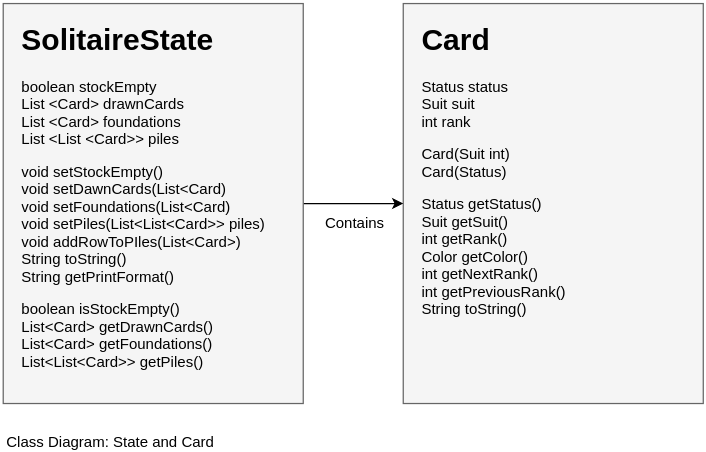
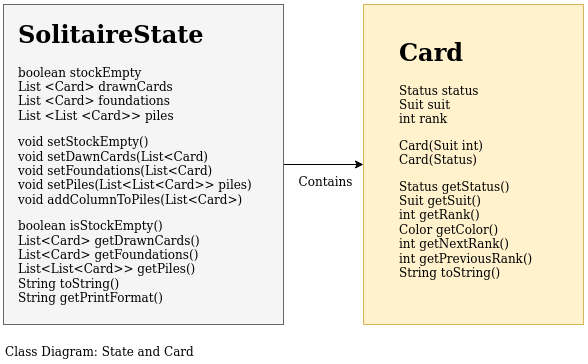
Header links

diff --git a/Data/src/main/java/dataObjects/SolitaireState.java b/Data/src/main/java/dataObjects/SolitaireState.java
@@ -83,8 +83,8 @@ public class SolitaireState {
 
 
     // Add one row to pile at a time.
-    public void addRowToPile(@NotNull List<Card> row) {
-        piles.add(row);
+    public void addColumnToPile(@NotNull List<Card> col) {
+        piles.add(col);
     }
 
     public String toString() {

diff --git a/Data/src/main/java/dataObjects/readme.md b/Data/src/main/java/dataObjects/readme.md
@@ -1,12 +1,25 @@
 # Data Objects
 
 ## Summary
-Cards are created like this ```new Card(Card.Suit.SPADE, 12)``` or like this: ```new Card(Card.Status.FACEDOWN)```.
-SolitaireState has four fields with setters and getters. 
+Cards are created like this 
+```
+new Card(Card.Suit.SPADE, 12)
+``` 
+or like this: 
+```
+new Card(Card.Status.FACEDOWN)
+```
+SolitaireState has four fields with setters and getters:
 1. ```boolean stockEmpty```
 2. ```List<Card> drawnCards```
 3. ```List<Card> foundations```
 4. ```List<List<Card>> piles```
+
+
+## Content
+- [Card](#card)
+- [SolitaireState](#solitairestate)
+- [Move](#move)
 
 ## Card
 This object represents a card in the game. 
@@ -58,7 +71,9 @@ This object is used to store the whole deck of cards as displayed on the table. 
 | foundations | List of Cards. Max size: 3.| Goal for the sorted cards. Values can be null|
 | piles | List of Lists of Cards. Size: 7. | The 7 columns. Values can be empty lists.|
 
-There are getters and setters for all fields. Some basic tests for validity are built-in. Some null values will raise exceptions, and the size ranges are enforced. (There is an extra setter for individual 'rows' in the pile, in case that is more practical)
+There are getters and setters for all fields. Some basic tests for validity are built-in. Some null values will raise exceptions, and the size ranges are enforced. 
+
+There is an extra setter for individual 'columns' in the pile, ```addColumntToPile()```, in case that is practical.
 
 The `toString()` method returns the ID of the SolitaireState. 
 
